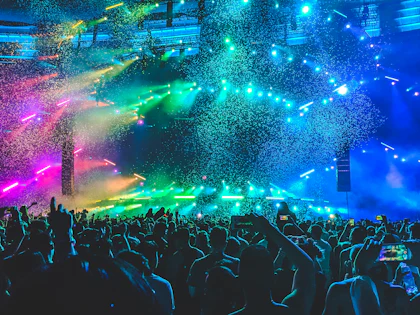
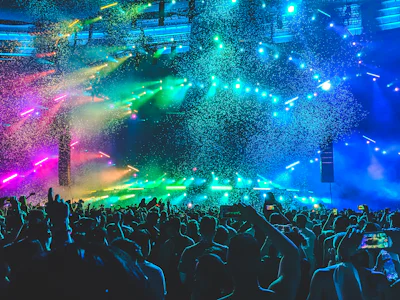
perf: deliver 37KB AVIF hero image with high fetchPriority, add decoding=async on lazy images

diff --git a/src/data/mockData.ts b/src/data/mockData.ts
@@ -955,7 +955,7 @@ export const MOCK_ARTICLES: Article[] = [
       label: 'Terkonfirmasi Resmi',
       description: 'Data berbasis berkas somasi resmi, rilis pers LMKN, dan pernyataan konfirmasi kedua belah pihak.',
     },
-    heroImage: '/images/hero-royalti.webp',
+    heroImage: '/images/hero-royalti.avif',
     imageCaption: 'Ilustrasi pertunjukan musik konser di Jakarta. (Foto: Dokumentasi Panggung Pop-Kultur / Unsplash)',
     publishedAt: '2026-10-11T09:30:00Z',
     readingTimeMinutes: 7,
@@ -1904,7 +1904,7 @@ export const MOCK_ARTICLES: Article[] = [
       label: 'Terkonfirmasi Resmi Dokumen Somasi',
       description: 'Berdasarkan surat somasi tersertifikasi, rilis resmi bursa efek KRX, dan konferensi pers terbuka para pihak.',
     },
-    heroImage: '/images/hero-royalti.webp',
+    heroImage: '/images/hero-royalti.avif',
     imageCaption: 'Ilustrasi sorotan panggung konser megah di Seoul. (Foto: Pop Culture Archive Network)',
     publishedAt: '2026-10-11T12:00:00Z',
     readingTimeMinutes: 7,

diff --git a/src/components/ui/SafeImage.tsx b/src/components/ui/SafeImage.tsx
@@ -36,7 +36,8 @@ export const SafeImage: React.FC<SafeImageProps> = ({
   const [isLoaded, setIsLoaded] = useState<boolean>(false);
 
   const finalLoading = loading || (priority ? 'eager' : 'lazy');
-  const finalFetchPriority = fetchPriority || (priority ? 'high' : undefined);
+  const finalFetchPriority = fetchPriority || (priority ? 'high' : 'low');
+  const finalDecoding = priority ? 'sync' : 'async';
 
   // Compute active source URL
   const initialOptimized = optimizedWidth
@@ -111,6 +112,7 @@ export const SafeImage: React.FC<SafeImageProps> = ({
       alt={alt}
       loading={finalLoading}
       fetchPriority={finalFetchPriority}
+      decoding={finalDecoding}
       onError={handleError}
       onLoad={() => setIsLoaded(true)}
       className={`${fillClasses} ${className} ${

diff --git a/src/app/page.tsx b/src/app/page.tsx
@@ -48,6 +48,7 @@ export default function HomePage() {
         <link
           rel="preload"
           as="image"
+          type="image/avif"
           href={heroImageUrl}
           // @ts-ignore modern browser fetchPriority
           fetchPriority="high"
